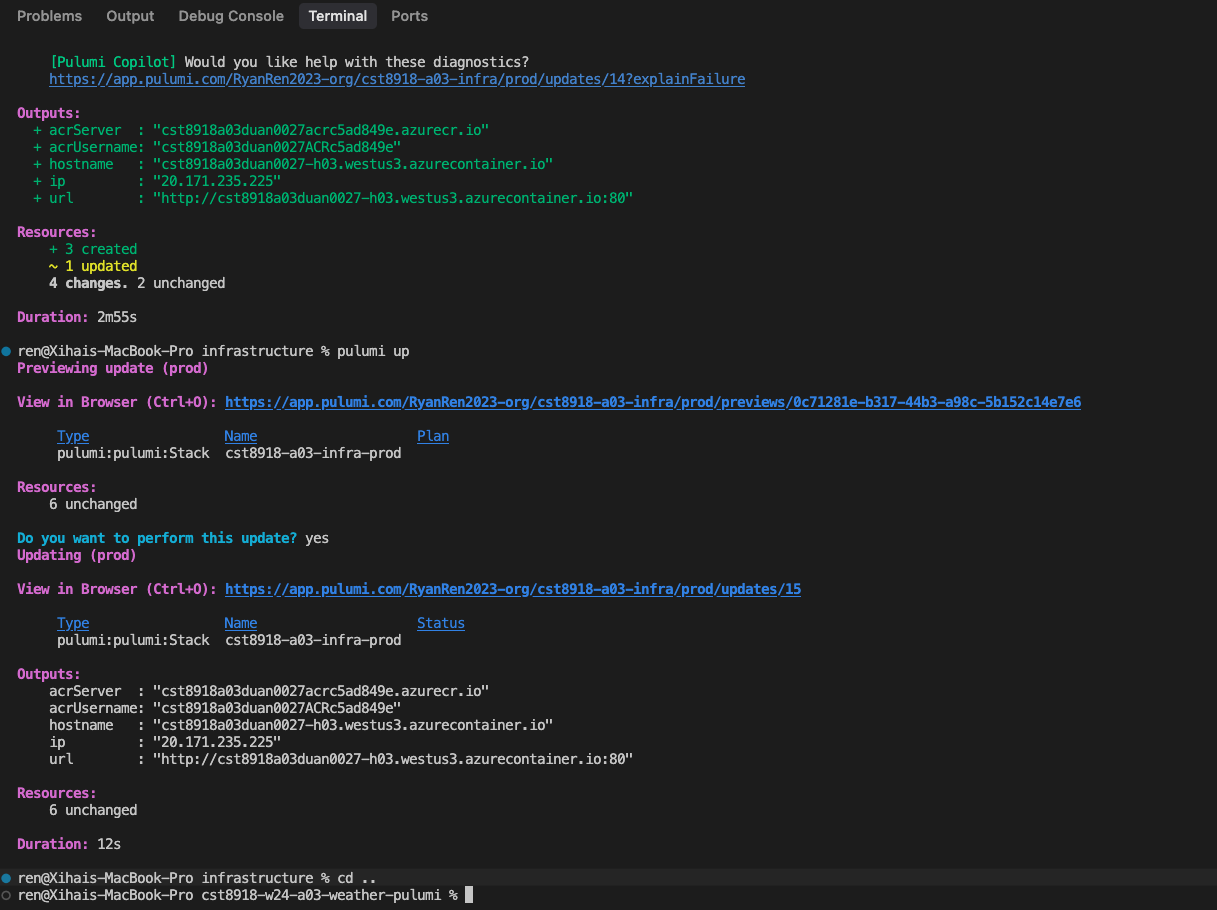
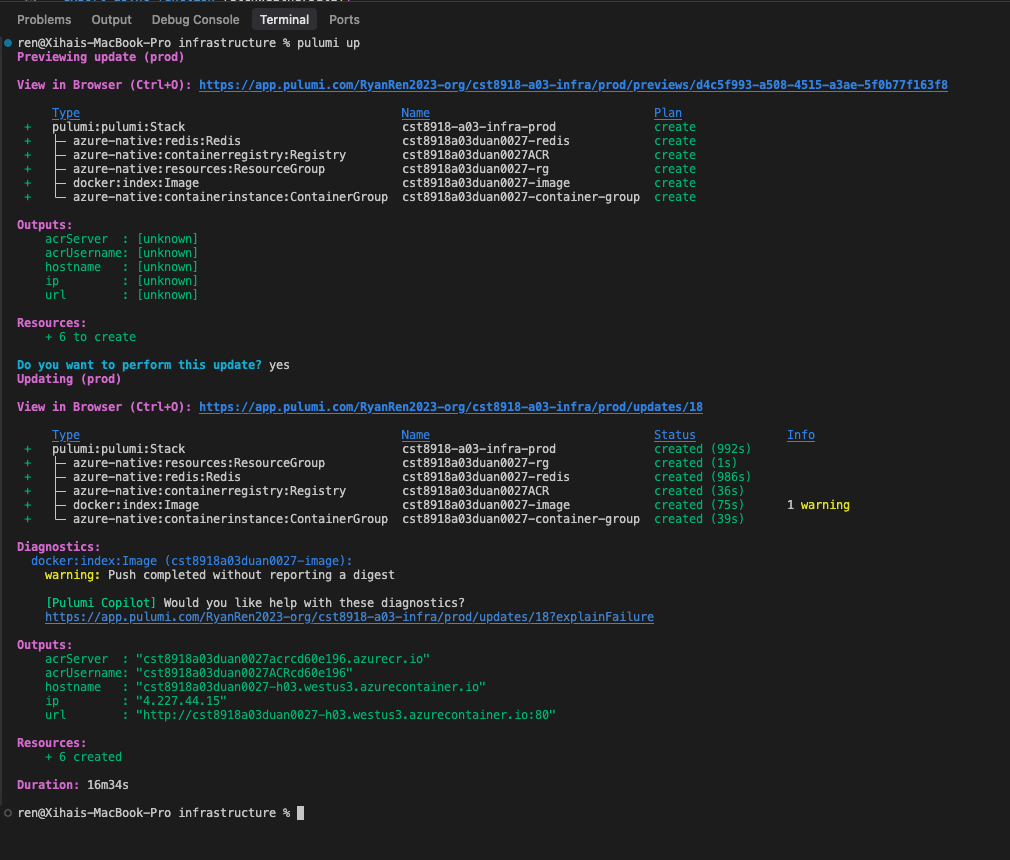
update screenshot and readme

Changed region(s): [[0.0, 0.0, 0.9515, 0.9977], [0.798, 0.5744, 0.8594, 0.6047], [0.7673, 0.4837, 0.798, 0.514]]

diff --git a/README.md b/README.md
@@ -1,8 +1,13 @@
 CST8918 - DevOps: Infrastructure as Code  
 Prof: Robert McKenney
 
-Submit Screenshot:
-![Screenshot](screenshot-lab-a03.png)
+**Submit Screenshot: lab-a03**
+![creenshot-lab-a03](screenshot-lab-a03.png)
+
+**Submit Screenshot: hybrid-h03**
+![pulumi-output](pulumi-output.png)
+
+
 
 # LAB-A03 Pulumi Weather App
 
